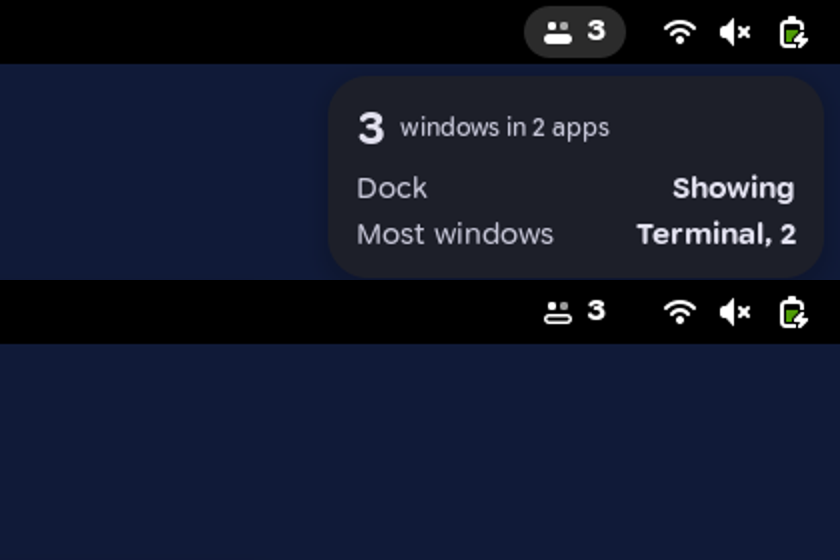
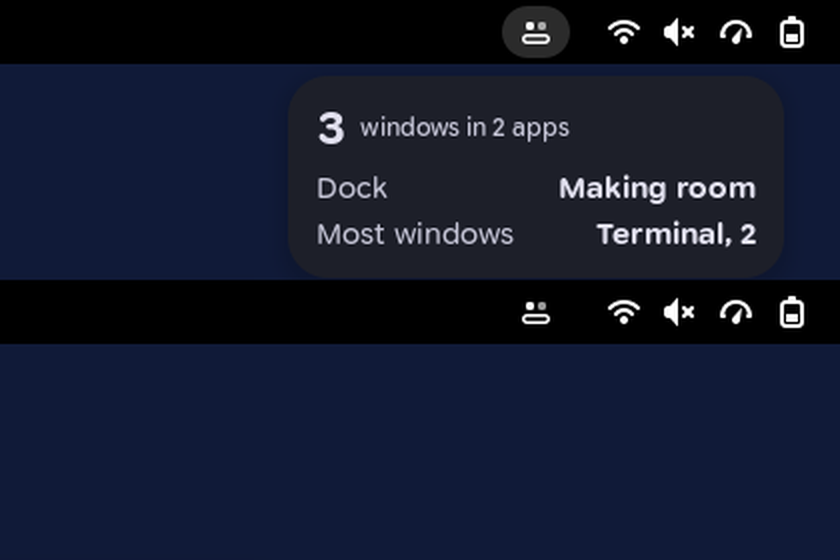
Show only the mark in the top bar, without the window count
The count stays in the look on hover and in the menu; attention still
turns the mark yellow.

diff --git a/extension/lib/indicator.js b/extension/lib/indicator.js
@@ -1,5 +1,5 @@
-// The top bar item: Harbor's mark and one number, the open windows. Resting
-// the pointer on it shows a small look; a click opens the menu.
+// The top bar item: Harbor's mark alone. Resting the pointer on it shows a
+// small look; a click opens the menu.
 
 import GLib from 'gi://GLib';
 import GObject from 'gi://GObject';
@@ -10,7 +10,6 @@ import * as PanelMenu from 'resource:///org/gnome/shell/ui/panelMenu.js';
 import {HarborMark} from './mark.js';
 import {Peek} from './peek.js';
 import {setScheme} from './theme.js';
-import {text} from './text.js';
 
 // Long enough that crossing the item on the way elsewhere shows nothing.
 const HOVER_DELAY_MS = 300;
@@ -26,9 +25,7 @@ class HarborIndicator extends PanelMenu.Button {
 
         const box = new St.BoxLayout({style_class: 'panel-status-indicators-box harbor-indicator'});
         this._mark = new HarborMark();
-        this._count = text('indicator', {styleClass: 'harbor-indicator-count'});
         box.add_child(this._mark);
-        box.add_child(this._count);
         this.add_child(box);
 
         this.menu.box.add_style_class_name('harbor-popup');
@@ -58,12 +55,7 @@ class HarborIndicator extends PanelMenu.Button {
             return;
         this._snapshot = snapshot;
         this._dockState = dockState;
-        this._count.text = `${snapshot.windowCount}`;
         this._mark.set({shown: dockState === 'showing', attention: snapshot.attention});
-        if (snapshot.attention)
-            this._count.add_style_class_name('harbor-attention');
-        else
-            this._count.remove_style_class_name('harbor-attention');
         this._peek.update(snapshot, dockState);
     }
 

diff --git a/extension/lib/text.js b/extension/lib/text.js
@@ -17,7 +17,6 @@ export const ROLES = {
     'metric-l': {size: 34, weight: 800, width: 112, tabular: true},
     'metric-m': {size: 28, weight: 800, width: 112, tabular: true},
     'metric-s': {size: 22, weight: 700, width: 106, tabular: true},
-    'indicator': {size: 14, weight: 800, width: 112, tabular: true},
     'badge-number': {size: 12, weight: 800, width: 112, tabular: true},
     'title-row': {size: 14, weight: 700},
     'body': {size: 14, weight: 400},

diff --git a/tools/headless/scripts/topbar.js b/tools/headless/scripts/topbar.js
@@ -1,4 +1,4 @@
-// The top bar: the mark and number, the look on hover, and the states.
+// The top bar: the mark, the look on hover, and the states.
 export default async function ({indicator, extension, shot, sleep, note, move, moveTo, launch}) {
     await launch('org.gnome.TextEditor.desktop');
     await launch('org.gnome.Ptyxis.desktop');

diff --git a/extension/stylesheet.css b/extension/stylesheet.css
@@ -7,10 +7,6 @@
     spacing: 6px;
 }
 
-.harbor-attention {
-    color: #f5cc4a;
-}
-
 .harbor-peek {
     width: 220px;
     padding: 12px 14px;

diff --git a/tools/stylesheet.template.css b/tools/stylesheet.template.css
@@ -5,10 +5,6 @@
     spacing: 6px;
 }
 
-.harbor-attention {
-    color: #f5cc4a;
-}
-
 .harbor-peek {
     width: 220px;
     padding: 12px 14px;

diff --git a/README.md b/README.md
@@ -37,7 +37,7 @@ Harbor sends no notifications, reads nothing from the network and keeps one smal
 - **Minimise Into the Icon:** A window minimises into its app's icon in the dock.
 - **Drag to Arrange:** Drag an icon along the dock to move it, out of the dock to unpin it, or from the app grid into the dock to pin it.
 - **Right-Click Menu:** The app's own actions, a new window, pin or unpin, quit, and **Change symbol**, laid out like the rest of Harbor.
-- **A Mark in the Top Bar:** Two app tiles on a shelf and the number of open windows. Resting the pointer on it shows a small look; a click opens the menu.
+- **A Mark in the Top Bar:** Two app tiles on a shelf, nothing more. Resting the pointer on it shows a small look; a click opens the menu.
 - **Every Monitor:** One dock per screen if you want it, each marking the windows on its own screen.
 - **Five Colour Styles:** **Blue**, **violet**, **green**, **orange** and **pink**, each in light and dark.
 - **Light, Dark and Motion:** Harbor follows GNOME's colour scheme and its animation switch while it runs.
@@ -80,7 +80,7 @@ Every style works at the **left**, **bottom** and **right** edge (*tested* in th
 | :--- | :--- |
 | **Filled shelf** | The dock shows. |
 | **Outlined shelf** | A window keeps the dock away, or it is set to hide. |
-| **Yellow mark and number** | An app wants attention. Nothing else is sent. |
+| **Yellow mark** | An app wants attention. Nothing else is sent. |
 
 ---
 
@@ -329,6 +329,7 @@ Colours come from **`extension/lib/palettes.js`**: each style is Material 3's **
 - **The icons shrink by themselves** when the dock would not fit its edge, the way Dash to Dock does it; it is not a setting.
 - **A side dock leaves out long text:** the loud tile shows only its number, and the group names of **Grouped block** are hidden at the left and right edge.
 - **Status and Window list became one style, Extended bar:** both were the floating bar with one extra each, so they now come together; a saved `status` or `window-list` turns into `extended-bar`.
+- **No number in the top bar:** the count of open windows beside the mark said little at a glance; it stays in the look on hover and in the menu.
 - **Pills that reach beyond the dock** (status sentences, the rail's pill, pebble names) live on a layer that asks for no room, so the dock keeps its own size.
 
 ---
